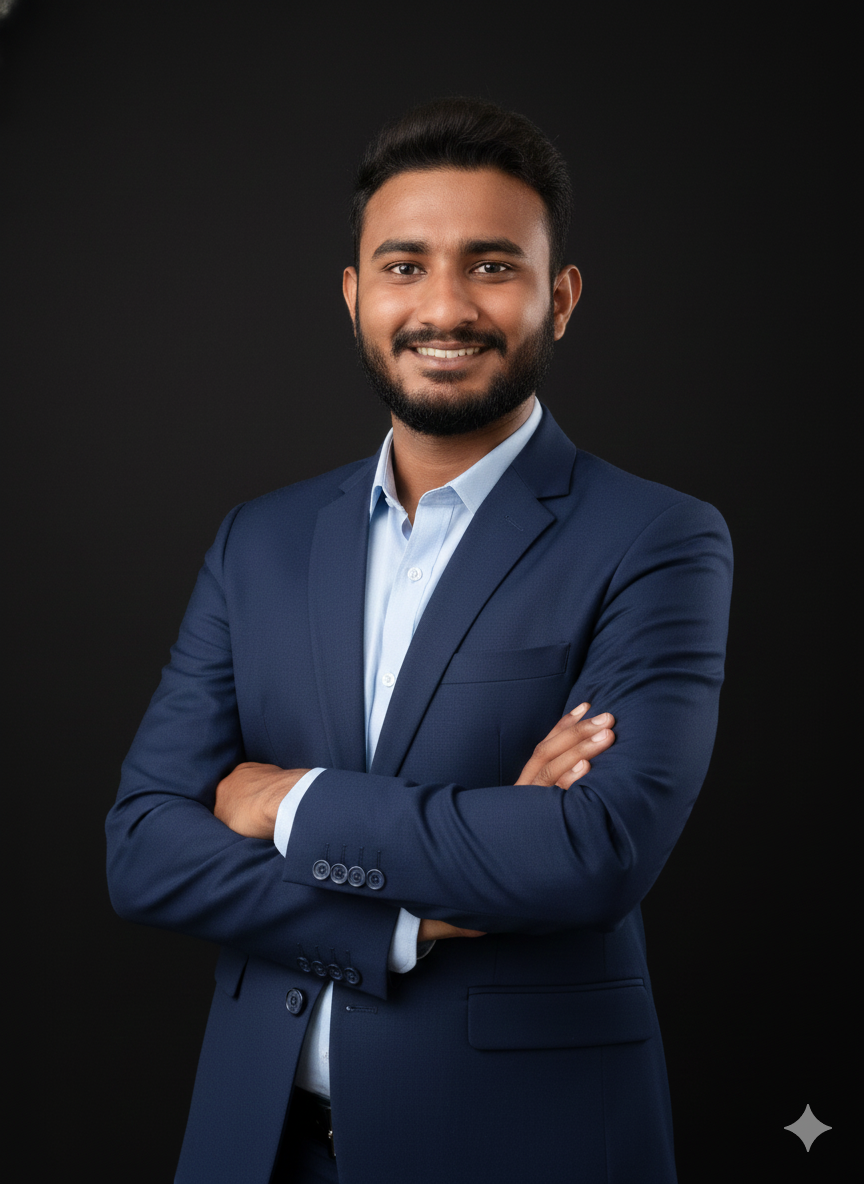
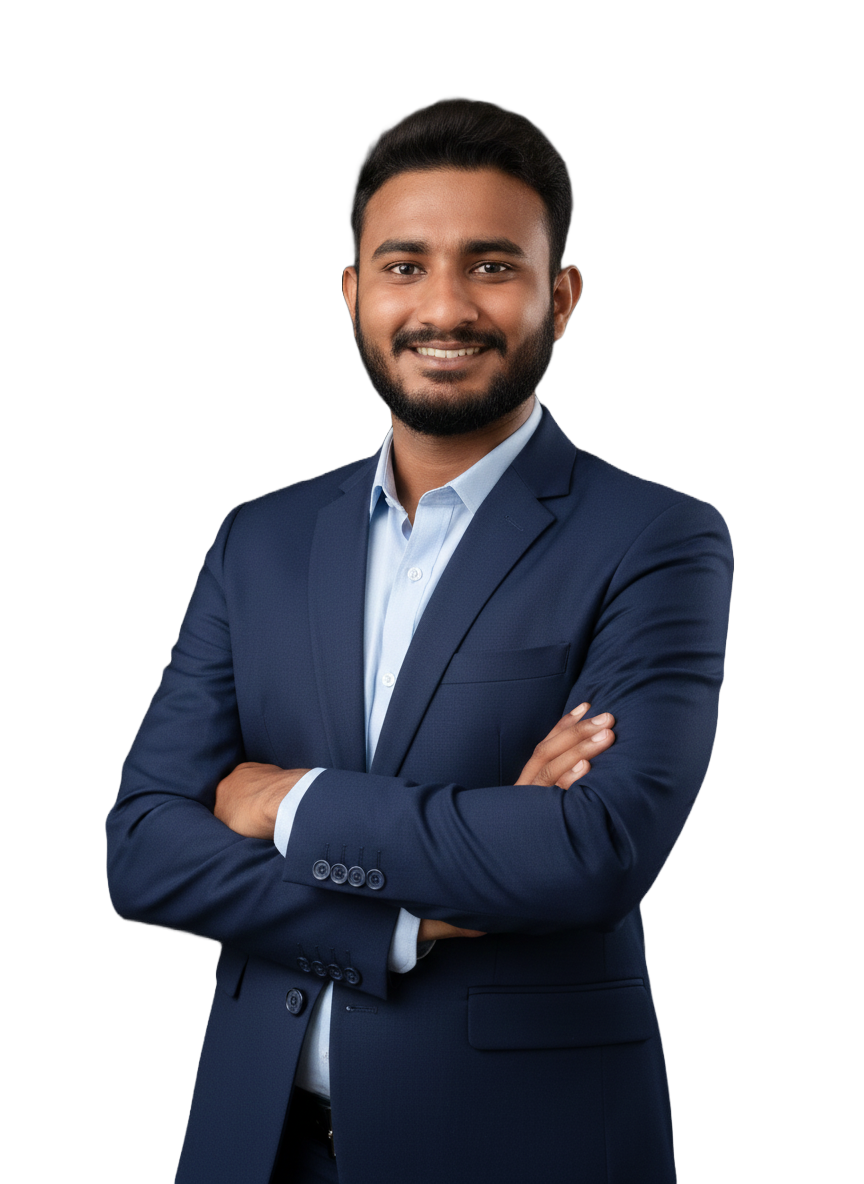
change it

diff --git a/index.html b/index.html
@@ -33,7 +33,7 @@
         </div>
       </div>
       <div class="banner-image">
-        <img src="images/ferdous.png" alt="">
+        <img width="108%" src="images/ferdous.png" alt="" class="remove-bg">
       </div>
     </section>
   </header>

diff --git a/styles/portfolio.css b/styles/portfolio.css
@@ -229,5 +229,6 @@ footer .footer-container{
   color: #757575;
 }
 #banner .banner-image img{
-  background: none;
+  max-width: 900px; 
+  vertical-align: middle;
 }
